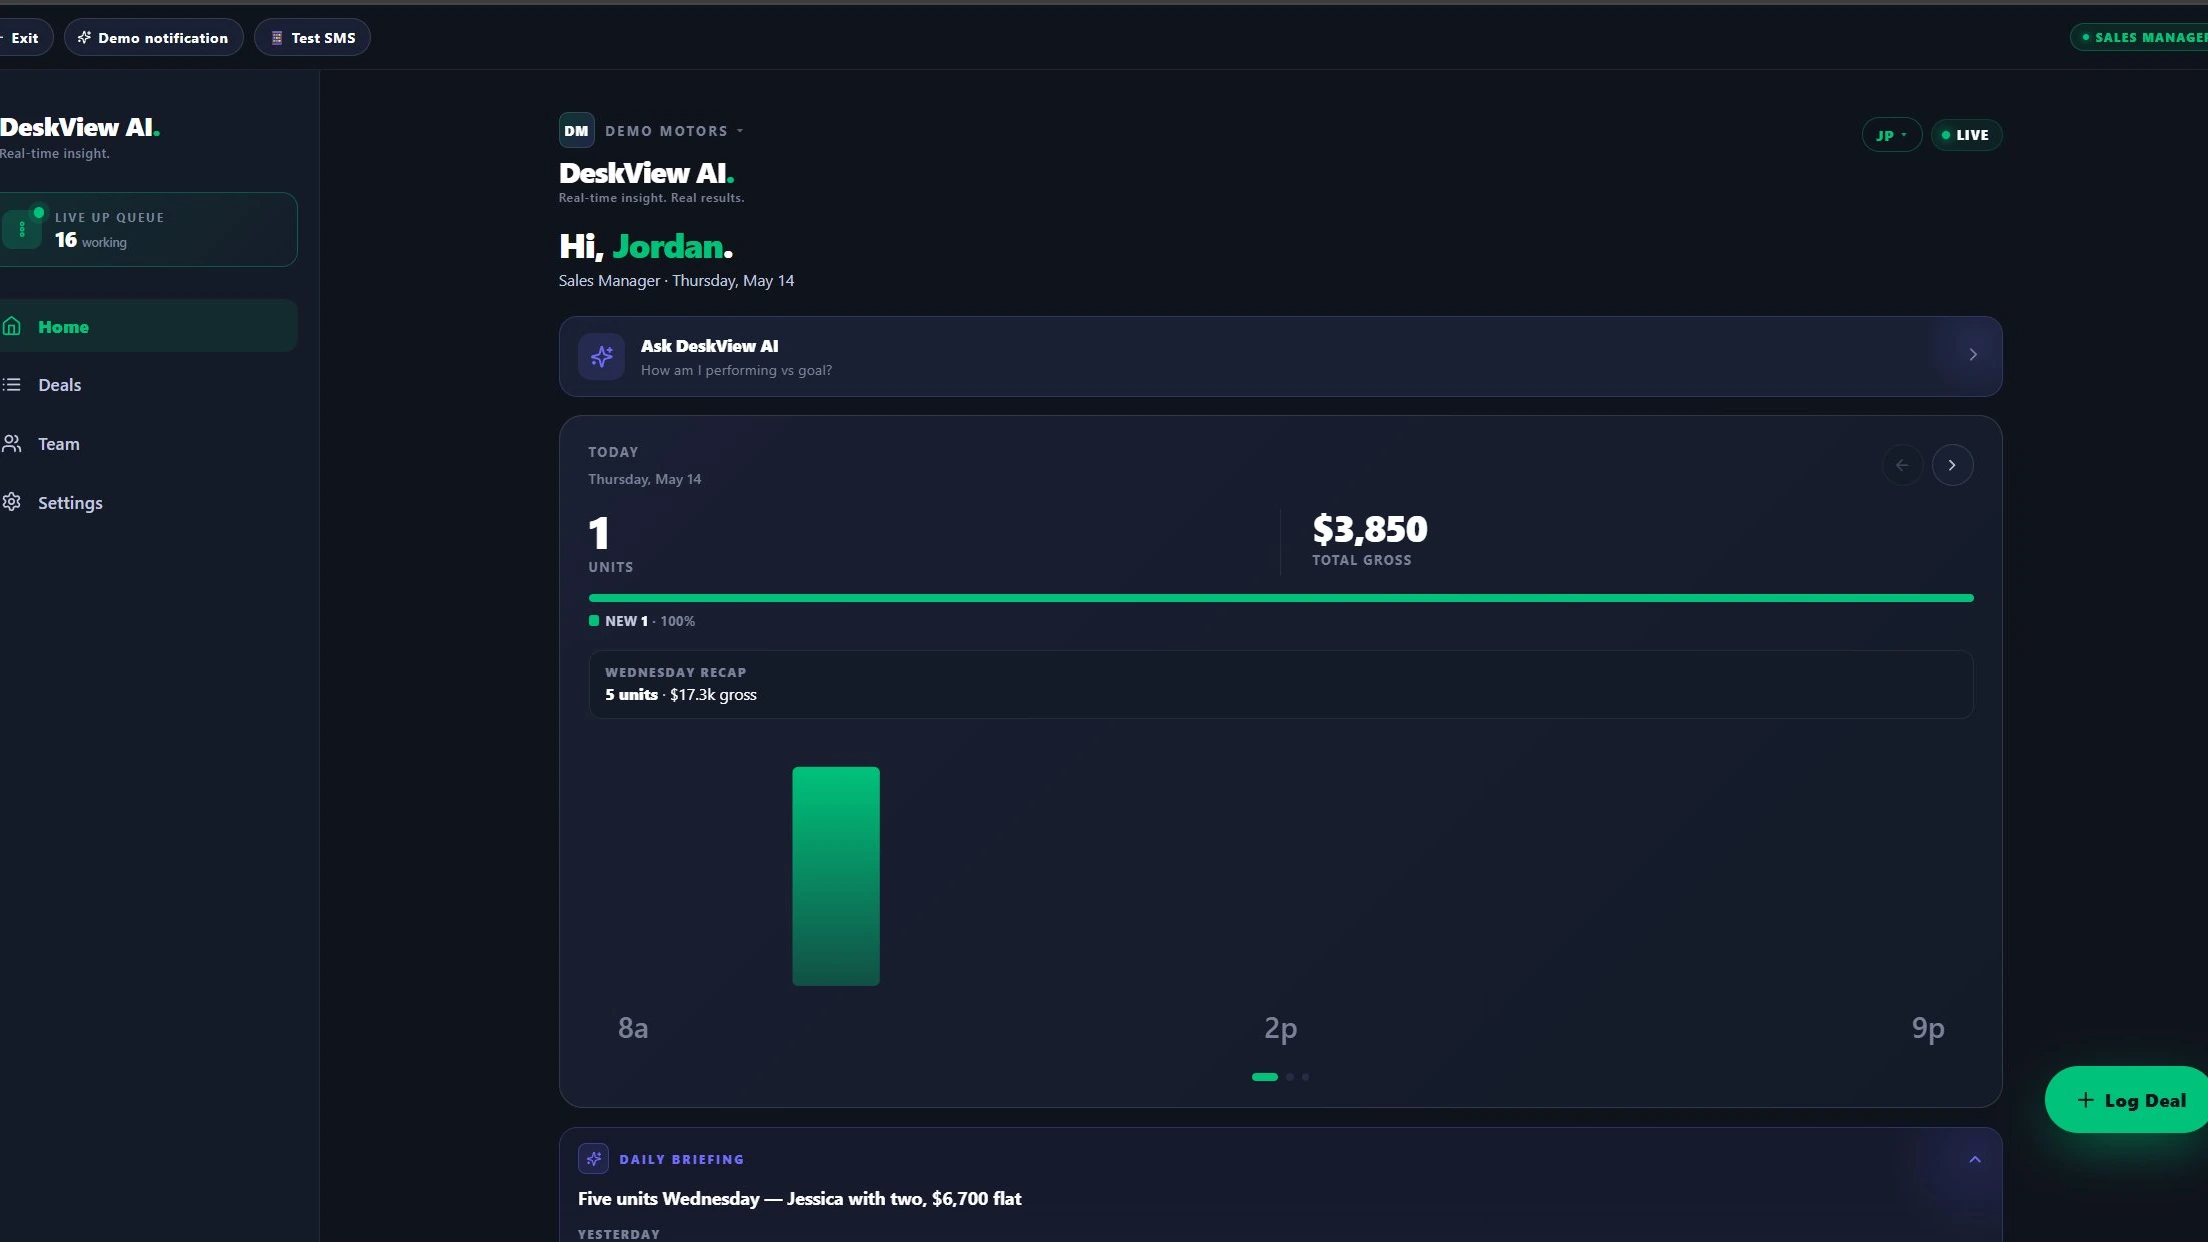
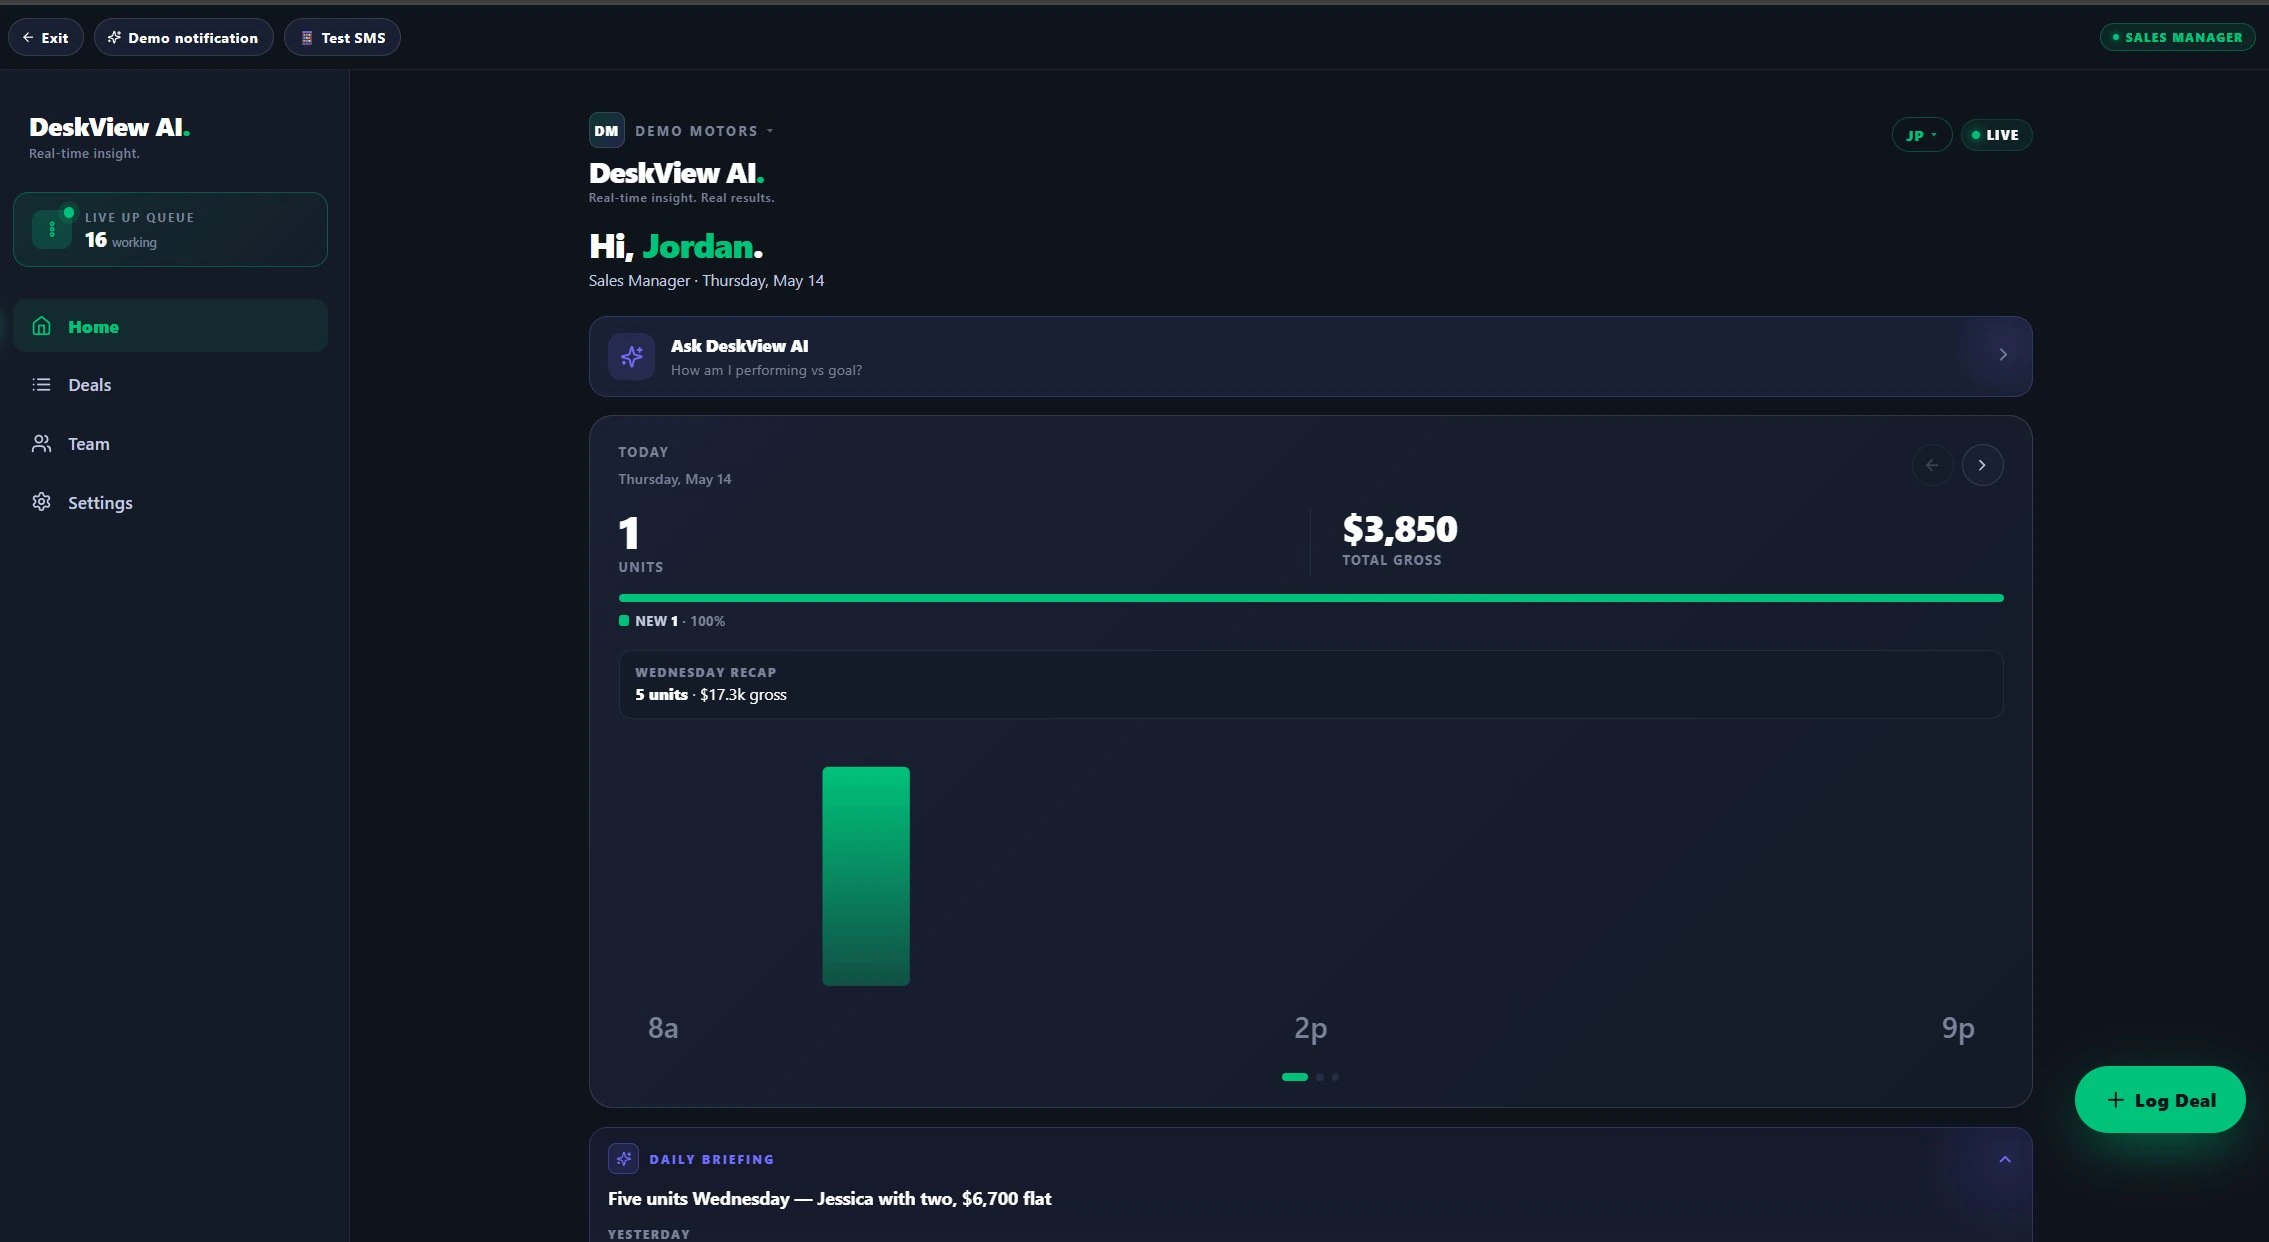
fix: uncrop hero screenshots + 5s rotation timing

diff --git a/index.html b/index.html
@@ -718,8 +718,8 @@ section { position: relative; z-index: 2; }
   display: block;
   width: 100%;
   height: 100%;
-  object-fit: cover;
-  object-position: top center;
+  object-fit: contain;
+  object-position: center;
 }
 .carousel-controls {
   display: flex;
@@ -1652,7 +1652,7 @@ section { position: relative; z-index: 2; }
                    alt="DeskView AI Dealer Principal dashboard: 75 units and $280,150 MTD gross, real-time trending chart, vehicle mix breakdown, pace tracking, and built-in AI assistant"
                    class="screenshot-img"
                    loading="eager"
-                   width="2005" height="1128" />
+                   width="2033" height="1128" />
             </div>
 
             <!-- Slide 2: Sales Manager Dashboard -->
@@ -1661,7 +1661,7 @@ section { position: relative; z-index: 2; }
                    alt="DeskView AI Sales Manager daily dashboard: today's pace, Wednesday recap, hourly sales chart, AI daily briefing, and live UP queue"
                    class="screenshot-img"
                    loading="lazy"
-                   width="2208" height="1242" />
+                   width="2269" height="1242" />
             </div>
 
             <!-- Slide 3: AI Chat - Team Performance -->
@@ -2106,7 +2106,7 @@ document.querySelectorAll('.reveal').forEach(el => observer.observe(el));
 
   let current = 0;
   let timer = null;
-  const ROTATION_MS = 6000;
+  const ROTATION_MS = 5000;
 
   function goTo(index) {
     const next = ((index % slides.length) + slides.length) % slides.length;
